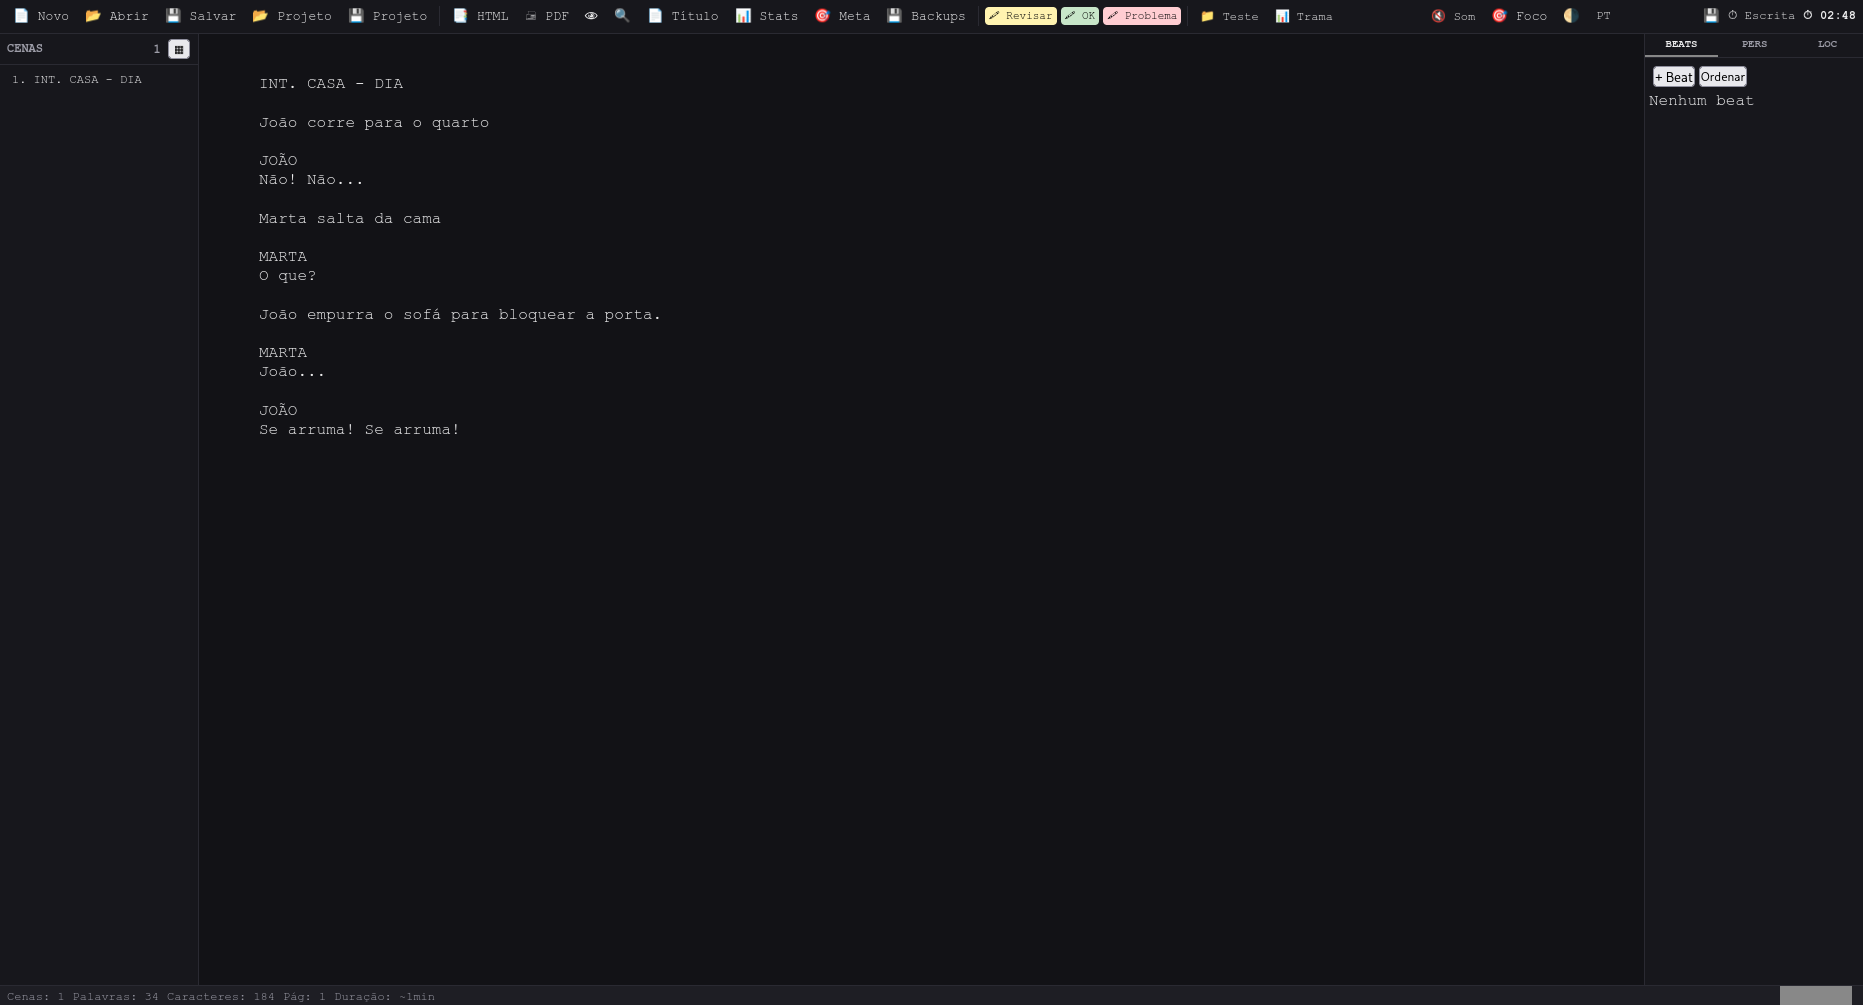
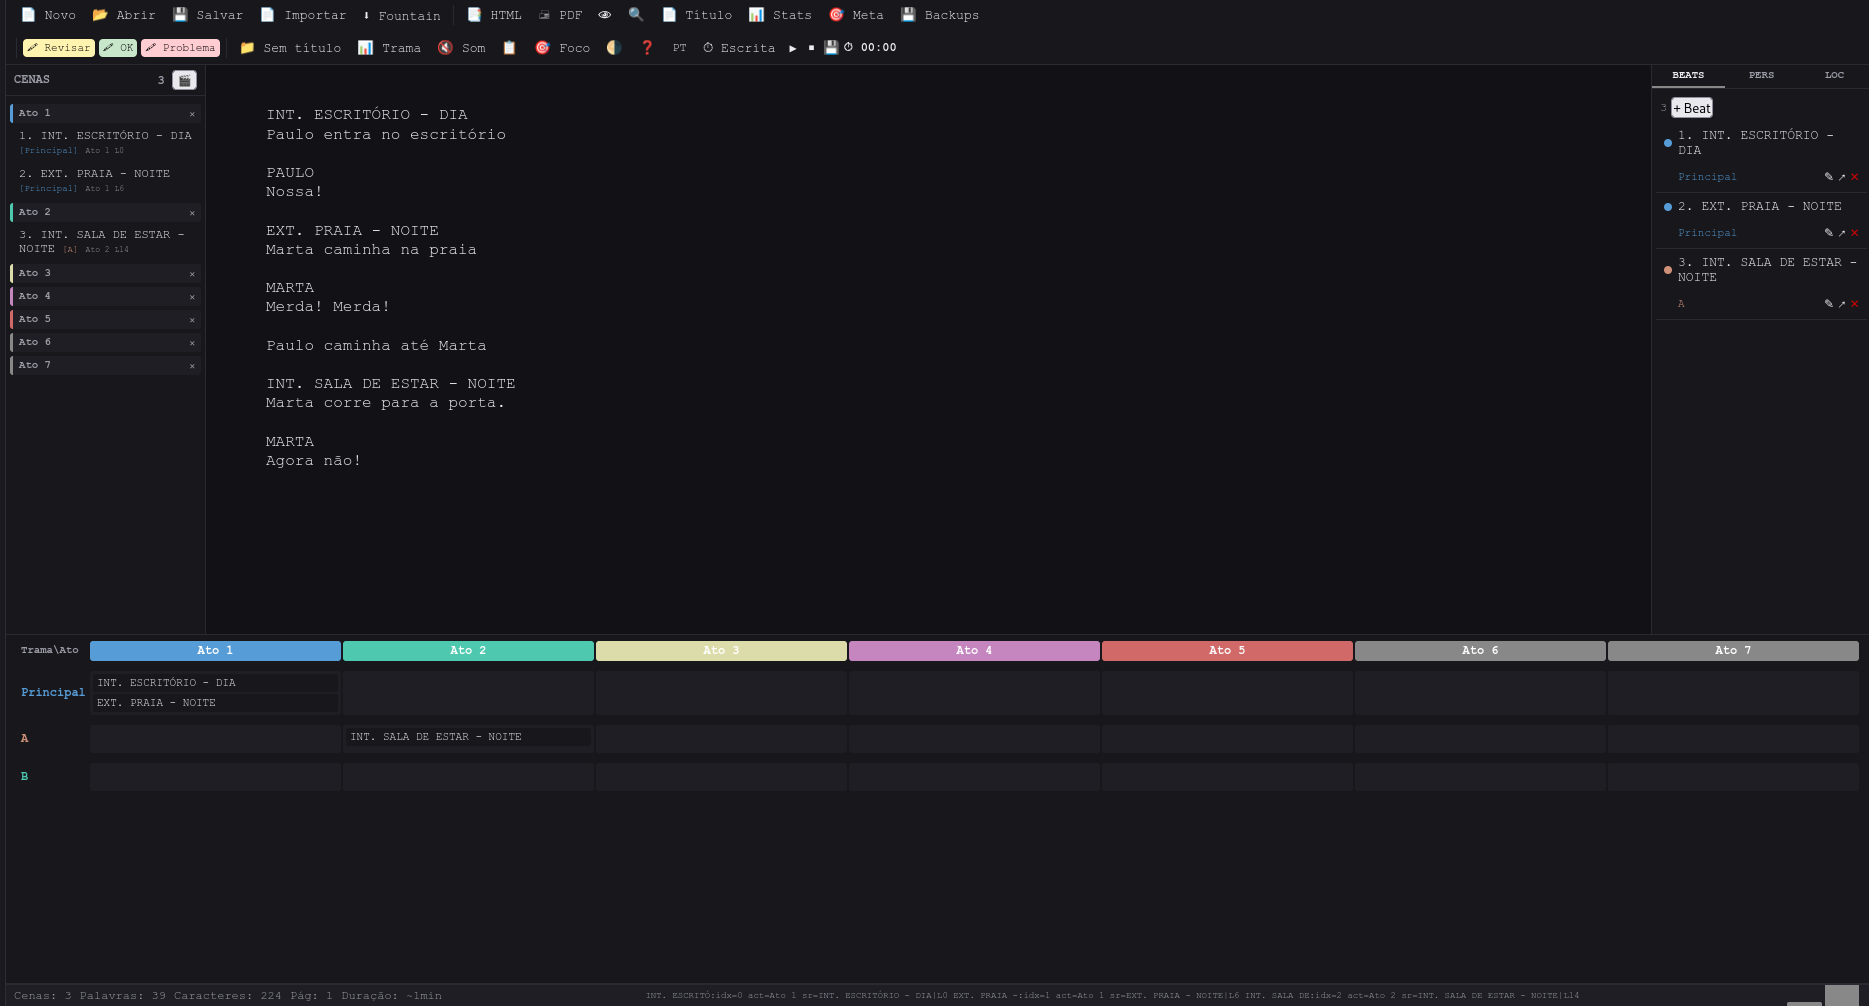
chore: imagens webp em vez de png

diff --git a/README.md b/README.md
@@ -84,8 +84,8 @@ HTML5, CSS3, JavaScript (ES6+), localStorage, File System Access API.
 
 ## Imagens
 
-![Fountain Writer](imagens/2-0/Fountain_Writer_2-0_1.png)
+![Fountain Writer](imagens/2-0/Fountain_Writer_2-0_1.webp)
 *Editor com sidebar de cenas e timeline*
 
-![Fountain Writer preview](imagens/2-0/Fountain_Writer_2-0_2.png)
+![Fountain Writer preview](imagens/2-0/Fountain_Writer_2-0_2.webp)
 *Preview ao vivo com formatação Fountain*